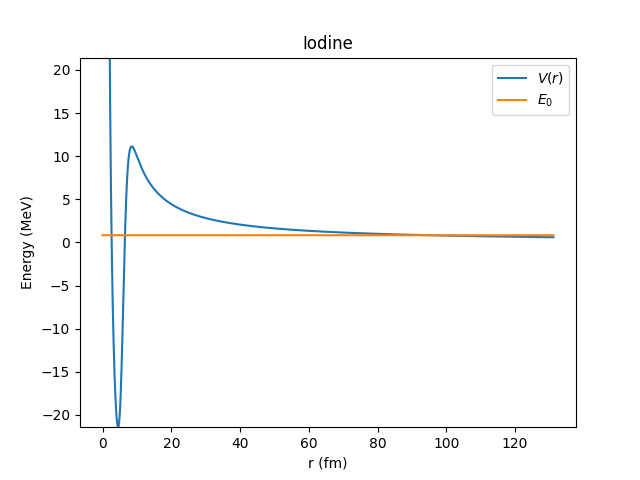
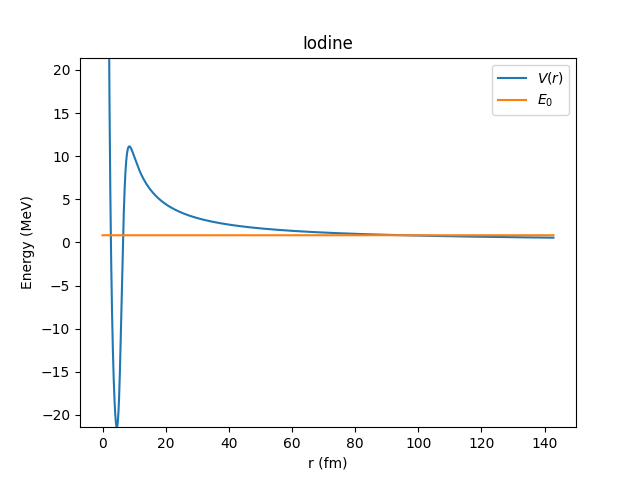
Add diagnostic output.

diff --git a/wkb-protons.py b/wkb-protons.py
@@ -120,32 +120,73 @@ def V_E0(r,A,Z,j,l,E_0):
 	return V(r,A,Z,j,l)-E_0
 
 def Γ(Sp,A,Z,j,l,E_0):
-	r = roots(V_E0,0.1,3,args=(A,Z,j,l,E_0))
-
+	
 	dr = 0.01
-	regA = np.arange(r[0],r[1],dr)
-	regB = np.arange(r[1],r[2],dr)
+	r1 = roots(V_E0,0.1,3,args=(A,Z,j,l,E_0))
+	r2 = root(V_E0,[1,5,50],args=(A,Z,j,l,E_0)).x
+
+
+	print(f"Roots from my root function: {r1}")
+	print(f"Roots from scipy root function: {r2}")
+	print(f"Difference between the two = {(r2-r1)}")
+
+	rr = r1.copy()
+	print(rr)
+	regA = np.arange(rr[0],rr[1],dr)
+	regB = np.arange(rr[1],rr[2],dr)
 	r = np.concatenate((
-		np.arange(10**(-3),r[0],dr),
+		np.arange(10**(-3),rr[0],dr),
 		regA,
 		regB,
-		np.arange(r[2],1.5*r[2],dr),
+		np.arange(rr[2],1.5*rr[2],dr),
 	))
+	print(rr)
 
 	kA = k(regA,A,Z,j,l,E_0)
 	kB = k(regB,A,Z,j,l,E_0)
-	integral1 = np.trapz(1/kA[np.abs(np.imag(kA)) <= 10**(-5)],regA[np.abs(np.imag(kA)) <= 10**(-5)]).real
-	integral2 = np.trapz(np.abs(kB),regB)
+	integral1_1 = np.trapz(1/kA[np.abs(np.imag(kA)) <= 10**(-5)],regA[np.abs(np.imag(kA)) <= 10**(-5)]).real
+	integral2_1 = np.trapz(np.abs(kB),regB)
+	
+	print(rr)
+	N = (1/2 * integral1_1)**(-1)
+	γ = Sp * N * ħ**2/(4*μ) * np.exp(-2 * integral2_1)
+	τ_12 = ħ*np.log(2)/(γ*c)
+	print(rr)
+	print(f"Halflife from my roots = {'%.2E'%τ_12} s")
 
-	N = (1/2 * integral1)**(-1)
-	return Sp * N * ħ**2/(4*μ) * np.exp(-2 * integral2), r
+	rr = r2.copy()
+	print(rr)
+	regA = np.arange(rr[0],rr[1],dr)
+	regB = np.arange(rr[1],rr[2],dr)
+	r = np.concatenate((
+		np.arange(10**(-3),rr[0],dr),
+		regA,
+		regB,
+		np.arange(rr[2],1.5*rr[2],dr),
+	))
+	print(rr)
+
+	kA = k(regA,A,Z,j,l,E_0)
+	kB = k(regB,A,Z,j,l,E_0)
+	integral1_2 = np.trapz(1/kA[np.abs(np.imag(kA)) <= 10**(-5)],regA[np.abs(np.imag(kA)) <= 10**(-5)]).real
+	integral2_2 = np.trapz(np.abs(kB),regB)
+	print(rr)
+
+	N = (1/2 * integral1_2)**(-1)
+	γ = Sp * N * ħ**2/(4*μ) * np.exp(-2 * integral2_2)
+	τ_12 = ħ*np.log(2)/(γ*c)
+	print(rr)
+	print(f"Halflife from scipy roots = {'%.2E'%τ_12} s")
+	print(f"Difference between integrals = {[integral1_1-integral1_2,integral2_1-integral2_2]}")
+
+	return γ, r
 
 def main():
 	Sp = 1
-	for n in range(A.shape[1]):
+	for n in range(1):
 		γ,r = Γ(Sp,A[0,n],Z[0,n],j[0,n],l[0,n],E_0[0,n])
 		τ_12 = ħ*np.log(2)/(γ*c)
-		print(f"n = {n}, T_1/2 = {τ_12*10**6} μs")
+		print(f"A = {A[0,n]}, Z = {Z[0,n]}, T_1/2 = {'%.2E'%τ_12} s")
 	# r = np.arange(0,40,0.01)
 	y = V(r,A[0,0],Z[0,0],j[0,0],l[0,0])
 	fig = plt.figure()
